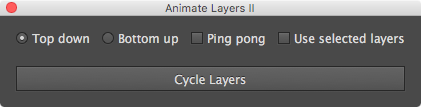
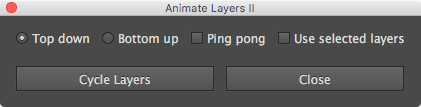
Layer restoration (closes #9).

diff --git a/Layer Animation II.jsx b/Layer Animation II.jsx
@@ -27,6 +27,10 @@ this[NS] = (function(_$this, _$application, _$window, undefined) {
 	var _doc = null;
 	var _ref = null;
 	var _title = '';
+	var _history = {
+		layers: [],
+		active: Number.NaN
+	};
 	
 	//----------------------------------------------------------------------
 	// Private methods:
@@ -40,10 +44,17 @@ this[NS] = (function(_$this, _$application, _$window, undefined) {
 	
 	_private.main = function() {
 		
+		// Record layer visibility:
+		_private.history();
+		
+		// Make palette window:
 		_ref = _private.palette();
+		
+		// Center and show the palette window:
 		_ref.center();
 		_ref.show();
 		
+		// Focus on active layer:
 		_private.focus();
 		
 	};
@@ -116,13 +127,15 @@ this[NS] = (function(_$this, _$application, _$window, undefined) {
 			group2: Group { \
 				alignChildren: ["fill", "top"], \
 				orientation: "row", \
-				start: Button { text: "Cycle Layers" } \
+				start: Button { text: "Cycle Layers" }, \
+				end: Button { text: "Close" } \
 			} \
 		}';
 		
 		// Instanciate `Window` class with setup from above:
 		var palette = new Window(meta, _title, undefined, {
 			//option: value
+			//closeButton: false
 		});
 		
 		// Selected checkbox:
@@ -142,7 +155,16 @@ this[NS] = (function(_$this, _$application, _$window, undefined) {
 		};
 		
 		// Close and/or palette UI close buttons:
+		palette.group2.end.onClick = function() {
+			
+			palette.close();
+			
+		};
+		
 		palette.onClose = function() {
+			
+			// Restore layer visibility:
+			_private.btm('restore'); // This only works if sent via BridgeTalk message. :(
 			
 			// Make sure to clean up actions:
 			_private.unload();
@@ -456,6 +478,49 @@ this[NS] = (function(_$this, _$application, _$window, undefined) {
 		
 	};
 	
+	/**
+	 * Creates layer visibility history and handles layer visibility restoration.
+	 *
+	 * @param {boolean} restore If `true`, then restory history as found in `_history` array.
+	 * @return {void}
+	 */
+	
+	_private.history = function(restore) {
+		
+		var layers = _doc.layers;
+		var i;
+		var il;
+		
+		if (restore) {
+			
+			_doc.activeLayer = _history.active;
+			
+		} else {
+			
+			_history.active = _doc.activeLayer;
+			
+		}
+		
+		// Loop over all top-level layers in document:
+		for (i = 0, il = layers.length; i < il; i++) {
+			
+			// Do we want to restore previous layer's visibility?
+			if (restore) {
+				
+				// Yes, so get visibility flags from history array:
+				layers[i].visible = _history.layers[i];
+				
+			} else {
+				
+				// Not now, but create history array for later restoration:
+				_history.layers[i] = layers[i].visible;
+				
+			}
+		
+		}
+		
+	}
+	
 	//----------------------------------------------------------------------
 	// Public methods:
 	//----------------------------------------------------------------------
@@ -497,6 +562,19 @@ this[NS] = (function(_$this, _$application, _$window, undefined) {
 	_$this.update = function() {
 		
 		_private.focus(true);
+		
+	};
+	
+	/**
+	 * Restores layer visibility; called internally via BridgeTalk message.
+	 *
+	 * @return {void}
+	 */
+	
+	_$this.restore = function() {
+		
+		// Return layer visibility back to starting state:
+		_private.history(true); // Passing boolean `true` to force restoration.
 		
 	};
 	

diff --git a/README.md b/README.md
@@ -30,6 +30,8 @@ Palette window:
 
 Using the radio and check box options, click the `Start` button to animate through layers.
 
+This plugin will use the “active” layer as the starting frame; upon palette close, the original layer visibility will be restored.
+
 **More documentation coming soon.**
 
 ## Big ups …
